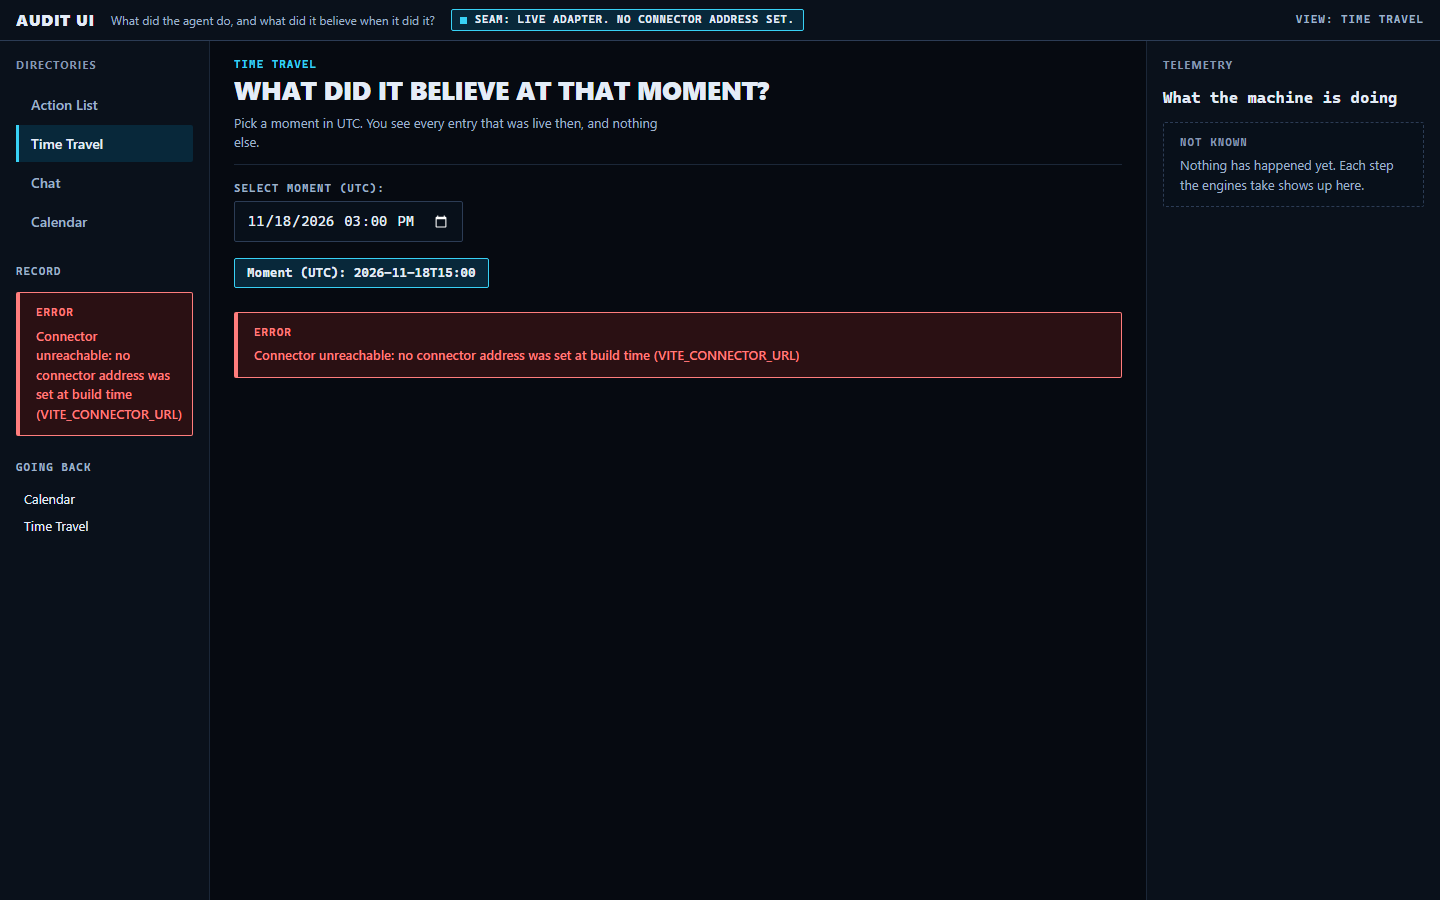
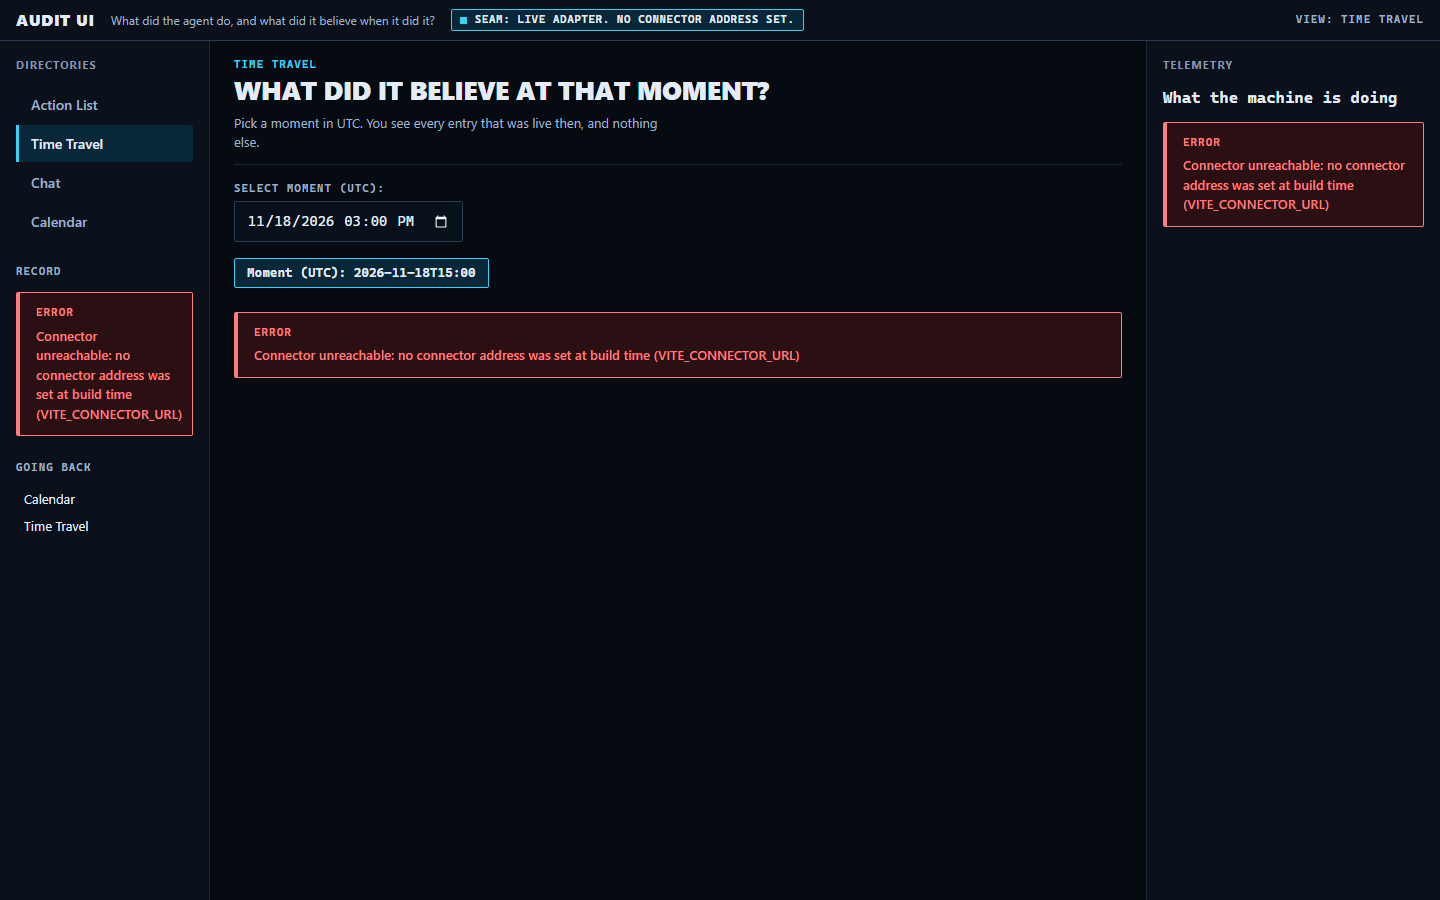
Remove mock review fixes: right column says unreachable, no step label, meter refresh test

Changed region(s): [[0.7812, 0.1244, 1.0, 0.28]]

diff --git a/audit-ui/src/shell/telemetry.ts b/audit-ui/src/shell/telemetry.ts
@@ -43,8 +43,7 @@ function renderItem(item: FeedItem): HTMLElement {
     li.appendChild(a);
     li.appendChild(el('span', 'katie-evidence', item.entry.evidence ?? 'entry not visible'));
   }
-  const step = item.from.step !== null ? ` (step ${item.from.step})` : '';
-  li.appendChild(el('span', 'feed-from', `from: "${item.from.message}"${step}`));
+  li.appendChild(el('span', 'feed-from', `from: "${item.from.message}"`));
   return li;
 }
 
@@ -83,7 +82,7 @@ export class TelemetryPanel implements Panel {
     void this.adapter.fetchAllEntries().then((entries) => {
       if (my !== this.token || !this.root) return;
       // The feed comes from the log; entries only add KATIE evidence when visible.
-      this.render(entries.ok ? entries.data : []);
+      this.render(entries.ok ? entries.data : [], entries.ok ? null : entries.error);
     });
   }
 
@@ -112,12 +111,14 @@ export class TelemetryPanel implements Panel {
     this.root = null;
   }
 
-  private render(entries: Entry[]): void {
+  /** `readError`: why the record read failed (the connector's words), shown above the feed. */
+  private render(entries: Entry[], readError: string | null = null): void {
     const root = this.root;
     if (!root) return;
     root.replaceChildren(el('h2', 'telemetry-heading', WORK_HEADING));
+    if (readError !== null) root.appendChild(el('p', 'error-state', readError));
     const items = feedItems(this.log.turns(), entries);
-    if (items.length === 0) {
+    if (items.length === 0 && readError === null) {
       root.appendChild(el('p', 'empty-state', 'Nothing has happened yet. Each step the engines take shows up here.'));
     }
     const feed = el('ul', 'activity-feed');

diff --git a/audit-ui/src/shell/left-folders.test.ts b/audit-ui/src/shell/left-folders.test.ts
@@ -82,3 +82,24 @@ describe('LeftPanel subject folders', () => {
     expect(slot.querySelector('.folder[data-group="pressure"] .folder-subject')?.classList.contains('sr-only')).toBe(true);
   });
 });
+
+describe('LeftPanel refresh: the meter moves with the record', () => {
+  it('a new entry on the subject moves the number and the history on refresh', async () => {
+    const entries: Entry[] = [makeEntry({ id: 'a', subject: 'turn', authority: 5, k_start: '2026-11-18T15:00:00.000Z' })];
+    const a = {
+      fetchAllEntries: async () => ({ ok: true, data: [...entries] }),
+      fetchLessons: async () => ({ ok: true, data: [] }),
+    } as unknown as SeamAdapter;
+    const slot = document.createElement('div');
+    const panel = new LeftPanel(a);
+    panel.mount(slot);
+    await tick(); await tick();
+    const folder = (): HTMLElement => slot.querySelector<HTMLElement>('.subject-folder[data-subject="turn"]')!;
+    expect(folder().querySelector('.folder-value')?.textContent).toBe('5');
+    entries.push(makeEntry({ id: 'b', subject: 'turn', authority: 7, k_start: '2026-11-18T15:01:00.000Z' }));
+    panel.refresh();
+    await tick(); await tick();
+    expect(folder().querySelector('.folder-value')?.textContent).toBe('7');
+    expect(folder().querySelector('.folder-history')?.textContent).toBe('5 -> 7');
+  });
+});

diff --git a/audit-ui/src/no-connector.test.ts b/audit-ui/src/no-connector.test.ts
@@ -27,6 +27,7 @@ async function open(path: string, fetchImpl?: FetchLike, base = ''): Promise<voi
 
 const center = (): string => container.querySelector('.shell-center')?.textContent ?? '';
 const left = (): string => container.querySelector('.shell-left')?.textContent ?? '';
+const right = (): string => container.querySelector('.shell-right')?.textContent ?? '';
 
 describe('no connector address: every view says so', () => {
   const routes = [
@@ -48,6 +49,8 @@ describe('no connector address: every view says so', () => {
       }
       expect(center()).toContain(NO_ADDRESS_ERROR);
       expect(left()).toContain(NO_ADDRESS_ERROR);
+      expect(right()).toContain(NO_ADDRESS_ERROR);
+      expect(right()).not.toContain('Nothing has happened yet');
     });
   }
 
@@ -73,6 +76,7 @@ describe('connector down (address set, nothing answers): every view says so', ()
     it(`${path} shows "Connector unreachable"`, async () => {
       await open(path, down, 'http://127.0.0.1:9');
       expect(center()).toContain('Connector unreachable: Failed to fetch');
+      expect(right()).toContain('Connector unreachable: Failed to fetch');
     });
   }
 

diff --git a/audit-ui/src/adapter/live.ts b/audit-ui/src/adapter/live.ts
@@ -4,8 +4,9 @@
 // docs/assembly-parts.md; the request/response shapes are the types in seam.ts.
 //
 // With no base URL, every call returns the typed NO_ADDRESS error: the
-// connector cannot be reached because no address was set at build time. The record reads (entries, belief pool, chain, KID map)
-// are in the contract and their replies pass shape guards (live-guards.ts).
+// connector cannot be reached because no address was set at build time.
+// The record reads (entries, belief pool, chain, KID map) are in the
+// contract and their replies pass shape guards (live-guards.ts).
 // update is outside the contract and returns a typed error that says so.
 import type {
   AdapterResult,

diff --git a/audit-ui/src/shell/telemetry.test.ts b/audit-ui/src/shell/telemetry.test.ts
@@ -82,7 +82,7 @@ describe('TelemetryPanel: the work column', () => {
     expect(katie.dataset.entryId).toBe('e1');
     expect(katie.querySelector('a')?.getAttribute('href')).toBe(`/entry/4/${encodeURIComponent(SUBJ)}/e1`);
     expect(katie.querySelector('.katie-evidence')?.textContent).toBe('value=x (stub)');
-    expect(katie.querySelector('.feed-from')?.textContent).toBe('from: "first" (step 1)');
+    expect(katie.querySelector('.feed-from')?.textContent).toBe('from: "first"');
     expect(items[4]!.querySelector('.feed-source')?.textContent).toBe('stub:src ex');
     expect(slot.textContent).not.toContain('ARCHE');
   });

diff --git a/.kiro/specs/remove-mock/review-brief.md b/.kiro/specs/remove-mock/review-brief.md
@@ -1,0 +1,51 @@
+# Review brief: remove the mock (live-only app)
+
+READ-ONLY. Do not edit, commit, push, or start servers. First line:
+`VERDICT: PASS`, `VERDICT: PASS WITH FIXES` or `VERDICT: FAIL`, then
+numbered findings (HIGH / MED / LOW, file:line, fix).
+
+Repo `D:\kiroween-trifecta\kiroween-trifecta`, branch `feat/remove-mock`.
+Diff: `git diff 9bfccc6..HEAD` (base = main after the model-switch merge).
+Decisions: `.kiro/specs/remove-mock/notes.md`. Proof: `docs/remove-mock-proof/`.
+
+## The order (must be true)
+
+1. DELETED, not left dead: `scenario/` (fixtures, scripted replies, the
+   chat prompt hints), the mock adapter and mock assembly, the mock/live
+   switch (`adapter/active.ts` and every read of `ACTIVE_ADAPTER_KIND`),
+   every mock label and mock branch in views ("(mock)", "Replies are
+   scripted mock", the banner's mock state, the "Scenario not started"
+   chip, anything describing scripted behaviour), mock-mode tests.
+2. KEPT: test doubles (named in the notes), `docs/` screenshots, README and
+   disclosure (must be absent from the diff), the seam contract unchanged,
+   the bots repo untouched, the picker, switch, banner, record views, folders.
+3. Live-only behaviour: connector up = as before; connector down or URL
+   unset = every view says it is unreachable in words; no crash, no empty
+   shell pretending to be data, no invented fallback. No backend address
+   invented. No provider or model names in the app.
+4. Grep sweep: no `mock` / `Mock` / `scenario` in `audit-ui/src` outside
+   test doubles, each remaining occurrence explained.
+5. No new dependencies. No file over ~500 lines.
+6. `docs/assembly-parts.md` has no description of mock mode, mock labels or
+   scripted behaviour.
+
+## Look hardest at
+
+- Any view that, with the connector down, shows an empty state that reads
+  like "the record is empty" instead of "unreachable".
+- Anything that still depends on deleted code (dead CSS classes, comments,
+  unused exports such as `isLiveAt` usage, `assemblyNotUsed`).
+- Whether any test that was deleted covered LIVE behaviour that now has no
+  test (the deleted `shell-integration.test.ts` played the scenario
+  through the left folders, the feed and the hour view; check whether
+  `left-folders.test.ts`, `telemetry.test.ts`, `calendar.test.ts` and the
+  live-record tests still cover those views).
+- Whether the record stub in `test-helpers.ts` is a test double or mock
+  data under another name.
+
+## Evidence claimed
+
+- `npx vitest run` (from `audit-ui`): 314 pass, 35 files (base 361, 38).
+- `npx tsc --noEmit` clean; `npm run build` clean.
+- Browser pass against a scratch stub connector and with no connector:
+  `docs/remove-mock-proof/01..09`.

diff --git a/.kiro/specs/remove-mock/notes.md b/.kiro/specs/remove-mock/notes.md
@@ -31,7 +31,7 @@ Branch: `feat/remove-mock`. Kiroween repo only; the bots repo is untouched.
 | `views/nav.ts`, `styles/shell.css` | the `MOCK DATA` badge and its style |
 | `views/chat.ts`, `styles/chat.css` | "Replies are scripted mock. No model is running.", the "Scenario not started" / "Step n of m" chip, the mock kind of `ModelSource` |
 | `views/model-banner.ts`, `styles/model-banner.css` | the banner's mock state ("No live model"); the banner keeps live, unconfigured, unreachable and loading |
-| `shell/telemetry.ts` | "(mock)" in the work-column heading |
+| `shell/telemetry.ts` | "(mock)" in the work-column heading; the "(step n)" label on feed items (after review). A failed record read now shows the connector's words above the feed instead of "Nothing has happened yet". |
 | `shell/shell.ts` | the mock seam-chip text. The chip now says "Seam: live adapter, active." or, with no address, "Seam: live adapter. No connector address set." |
 | `style.css` | the `--mock` / `--mock-text` tokens |
 | `adapter/seam.ts`, `adapter/live-models.ts`, `shell/left.ts` | comments describing mock or scripted behaviour. The contract types are unchanged. |
@@ -90,11 +90,11 @@ views/calendar.test.ts:98: ... vi.fn>).mock.calls[0][0];
 ## Tests
 
 - Base `main` `9bfccc6`: 361 tests in 38 files.
-- Branch: 314 tests in 35 files, all pass. Deleted: the four mock / scenario
+- Branch: 315 tests in 35 files, all pass. Deleted: the four mock / scenario
   test files above plus the scenario-only cases in kept files (the scenario
   flow in `assembly-integration`, `bug-hunt-fixes` LOW-5, the mock persona
   case in `wired-chat`, the mock banner cases). Added: `no-connector.test.ts`
-  (11) and the no-address banner case. Retargeted: every test that used the
+  (11) and the no-address banner case; after review, right-column unreachable assertions and a left-folder refresh test (the meter moves with the record). Retargeted: every test that used the
   mock adapter as a convenient adapter now uses `createRecordStub`.
 - `npx tsc --noEmit` clean, `npm run build` clean, no new dependencies.
 
